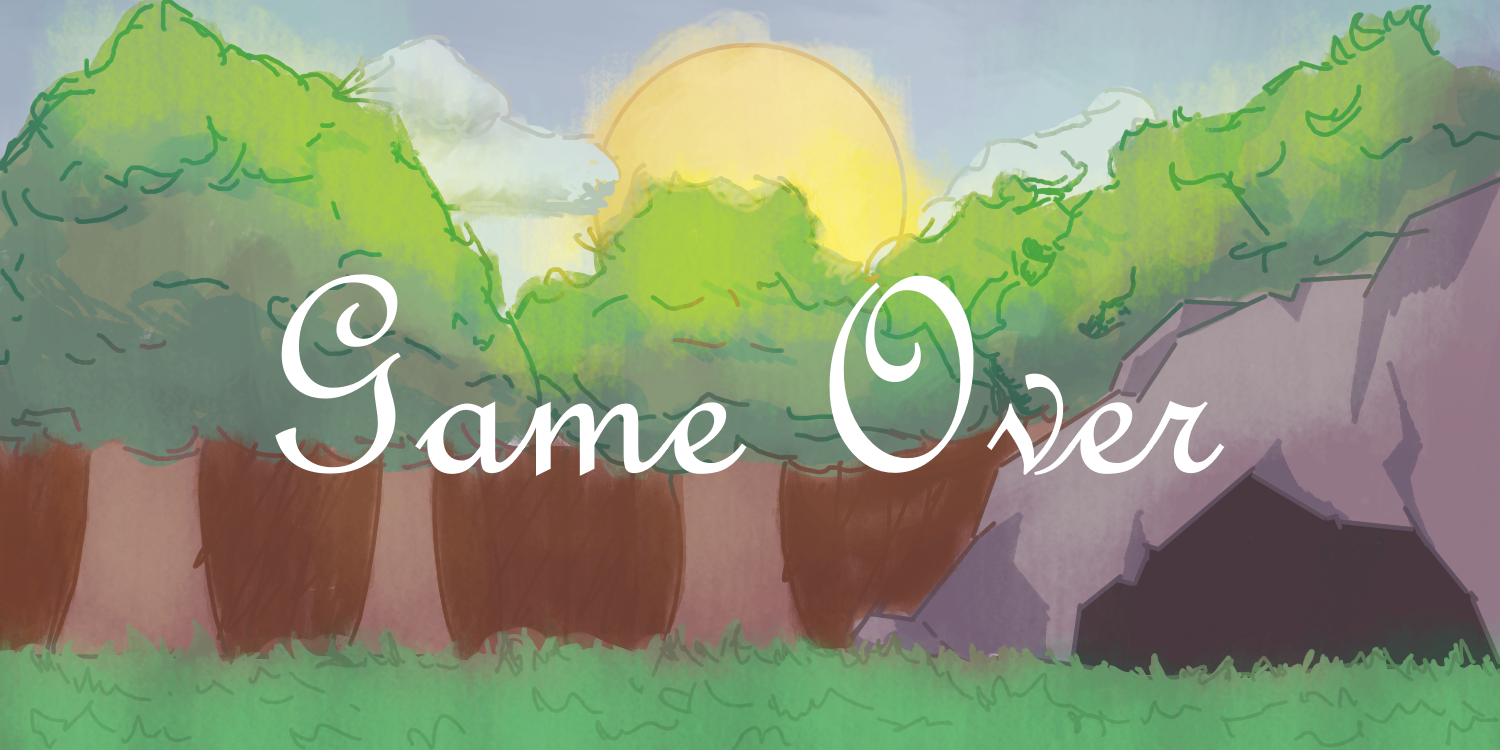
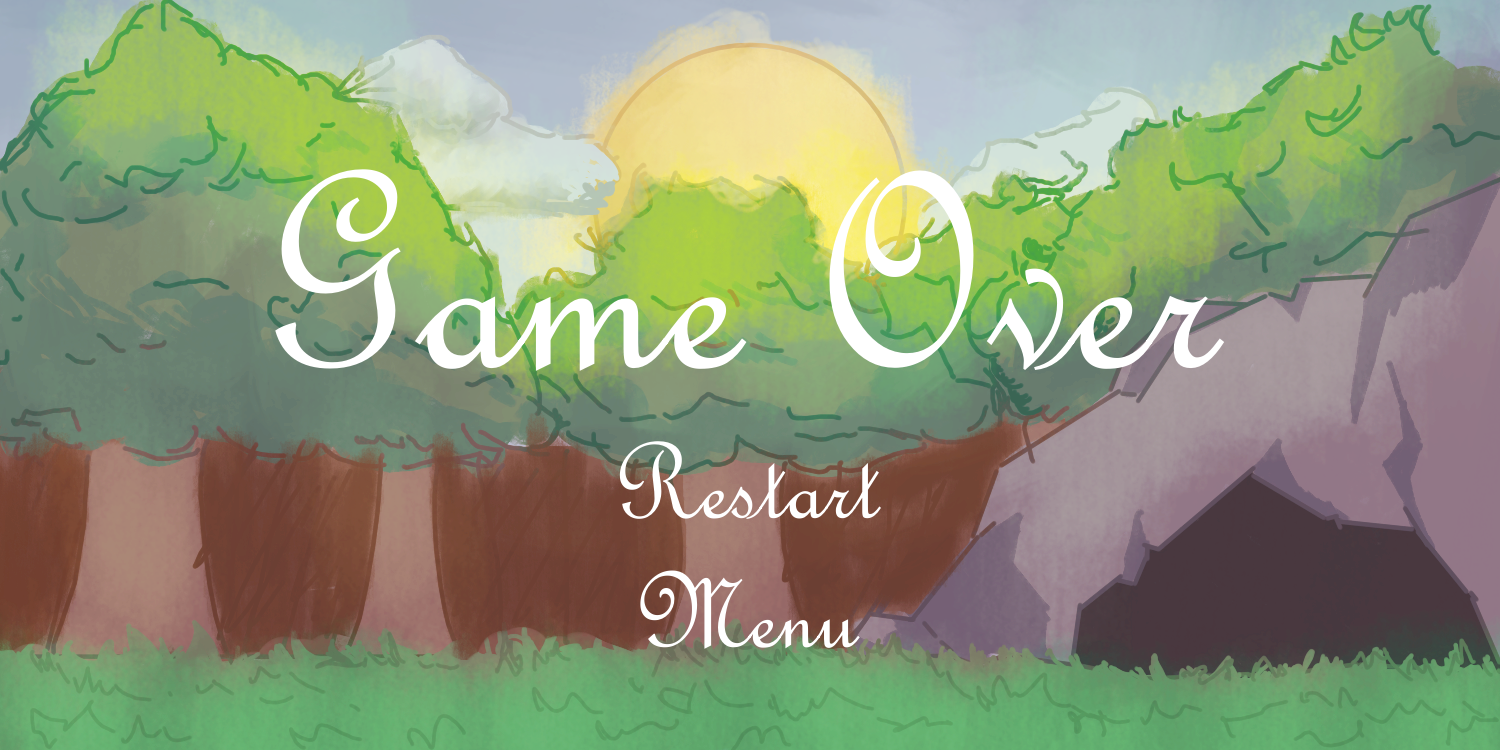
prunes spawn in intervals, pause and game over selection done

Changed region(s): [[0.184, 0.2147, 0.828, 0.7053], [0.4293, 0.7667, 0.5827, 0.8587]]

diff --git a/Sketch.java b/Sketch.java
@@ -4,11 +4,20 @@ import processing.core.PImage;
 
 public class Sketch extends PApplet {
   PImage imgBackground;
+
   PImage imgMenu;
   PImage imgStart;
   PImage imgTut;
   PImage imgGal;
+
   PImage imgGameOver;
+  PImage imgOverMenu;
+  PImage imgOverRestart;
+
+  PImage imgPause;
+  PImage imgRestart;
+  PImage imgResume;
+  PImage imgPMenu;
 
   PImage imgHeart;
 
@@ -54,7 +63,7 @@ public class Sketch extends PApplet {
   int intSpeedX = 15;
   int intSpeedY = 40;
 
-  int intLives = 10;
+  int intLives = 0;
 
   boolean blnRight = false;
   boolean blnLeft = false;
@@ -68,7 +77,7 @@ public class Sketch extends PApplet {
   PImage[] imgRightAttack = new PImage[9];
   PImage[] imgLeftAttack = new PImage[9];
 
-  float[] pruneArmyX = new float[1];
+  float[] pruneArmyX = new float[5];
   float[] pruneArmyY = new float[5];
   int[] pruneSpeed = new int[5];
   float[] pruneHealth = new float[5];
@@ -76,6 +85,8 @@ public class Sketch extends PApplet {
 
   PImage[] imgPruneLeftMove = new PImage[9];
   PImage[] imgPruneRightMove = new PImage[9];
+
+  float[] fltSpawn = new float[5];
 
   int intFrame = 0;
   int intAtkFrame = 0;
@@ -85,7 +96,7 @@ public class Sketch extends PApplet {
   ArrayList<Integer> intClickX = new ArrayList<Integer>();
   ArrayList<Integer> intClickY = new ArrayList<Integer>();
 
-  int intLvl = 1;
+  int intLvl = 0;
 
   public void settings() {
     size(1500, 750);
@@ -103,6 +114,18 @@ public class Sketch extends PApplet {
     imgGal = loadImage("gallery select.png");
 
     imgGameOver = loadImage("game over.png");
+
+    imgOverMenu = loadImage("over menu select.png");
+
+    imgOverRestart = loadImage("over restart select.png");
+
+    imgPause = loadImage("paused.png");
+
+    imgResume = loadImage("resume select.png");
+
+    imgRestart = loadImage("restart select.png");
+
+    imgPMenu = loadImage("menu select.png");
 
     imgHeart = loadImage("heart.png");
     imgHeart.resize(50, 50);
@@ -259,13 +282,13 @@ public class Sketch extends PApplet {
     intClickX.add(0);
     intClickY.add(0);
 
-    // Sets the location, speed, and health of all prunes
+    // Sets the starting location, speed, and health of all prunes
     for (int i = 0; i < pruneArmyX.length; i++) {
-      pruneArmyX[i] = random(1000, 1400);
+      pruneArmyX[i] = -1000;
       pruneArmyY[i] = 550;
       pruneSpeed[i] = 10;
       pruneHealth[i] = 100;
-      blnDrawPrune[i] = true;
+      blnDrawPrune[i] = false;
     }
   }
 
@@ -276,6 +299,9 @@ public class Sketch extends PApplet {
 
     else if(intLvl == 1){
       gameLvl();
+
+      intClickX.add(0);
+      intClickY.add(0);
     }
 
     else if(intLvl == 2){
@@ -291,7 +317,7 @@ public class Sketch extends PApplet {
     }
 
     if(intLives <= 0){
-      image(imgGameOver, 0, 0);
+      gameOver();
     }
   }
 
@@ -320,13 +346,6 @@ public class Sketch extends PApplet {
     // Pause
     if(intLvl == 1 && key == 'x'){
       intLvl = 4;
-      intClickX.add(0);
-      intClickY.add(0);
-    }
-
-    // Resume
-    if(intLvl == 4 && key == 'r'){
-      intLvl = 1;
       intClickX.add(0);
       intClickY.add(0);
     }
@@ -360,7 +379,7 @@ public class Sketch extends PApplet {
   public void startMenu(){
     image(imgMenu, 0, 0);
 
-    // Start select
+    // Start
     if(mouseX >= 660 && mouseX <= 840){
       if(mouseY >= 320 && mouseY <= 400){
         image(imgStart, 0, 0);
@@ -373,7 +392,7 @@ public class Sketch extends PApplet {
       }
     }
 
-    // Tutorial select
+    // Tutorial 
     if(mouseX >= 620 && mouseX <= 890){
       if(mouseY >= 460 && mouseY <= 540){
         image(imgTut, 0, 0);
@@ -386,7 +405,7 @@ public class Sketch extends PApplet {
       }
     }
 
-    // Gallery select
+    // Gallery 
     if(mouseX >= 630 && mouseX <= 870){
       if(mouseY >= 600 && mouseY <= 680){
         image(imgGal, 0, 0);
@@ -494,7 +513,86 @@ public class Sketch extends PApplet {
   }
 
   public void pauseMenu(){
-    image(imgBackground, 0, 0);
+    image(imgPause, 0, 0);
+
+    // Resume
+    if(mouseX >= 615 && mouseX <= 885){
+      if(mouseY >= 370 && mouseY <= 450){
+        image(imgResume, 0, 0);
+
+        if(intClickX.get(intClickX.size() - 1) >= 615 && intClickX.get(intClickX.size() - 1) <= 885){
+          if(intClickY.get(intClickY.size() - 1) >= 370 && intClickY.get(intClickY.size() - 1) <= 450){
+            intLvl = 1;
+          }
+        }
+      }
+    }
+
+    // Restart
+    if(mouseX >= 620 && mouseX <= 880){
+      if(mouseY >= 500 && mouseY <= 580){
+        image(imgRestart, 0, 0);
+
+        if(intClickX.get(intClickX.size() - 1) >= 620 && intClickX.get(intClickX.size() - 1) <= 880){
+          if(intClickY.get(intClickY.size() - 1) >= 500 && intClickY.get(intClickY.size() - 1) <= 580){
+            intLvl = 1;
+          }
+        }
+      }
+    }
+
+    // Menu
+    if(mouseX >= 640 && mouseX <= 860){
+      if(mouseY >= 630 && mouseY <= 710){
+        image(imgPMenu, 0, 0);
+
+        if(intClickX.get(intClickX.size() - 1) >= 640 && intClickX.get(intClickX.size() - 1) <= 860){
+          if(intClickY.get(intClickY.size() - 1) >= 630 && intClickY.get(intClickY.size() - 1) <= 710){
+            intLvl = 0;
+
+            intClickX.add(0);
+            intClickY.add(0);
+          }
+        }
+      }
+    }
+  }
+
+  public void gameOver(){
+    intLvl = 5;
+    
+    image(imgGameOver, 0 , 0);
+  
+    // Restart
+    if(mouseX >= 620 && mouseX <= 880){
+      if(mouseY >= 440 && mouseY <= 520){
+        image(imgOverRestart, 0, 0);
+
+        if(intClickX.get(intClickX.size() - 1) >= 620 && intClickX.get(intClickX.size() - 1) <= 880){
+          if(intClickY.get(intClickY.size() - 1) >= 440 && intClickY.get(intClickY.size() - 1) <= 520){            
+            intLvl = 1;
+            intLives = 10;
+          }
+        }
+      }
+    }
+
+    // Menu
+    if(mouseX >= 640 && mouseX <= 860){
+      if(mouseY >= 570 && mouseY <= 650){
+        image(imgOverMenu, 0, 0);
+
+        if(intClickX.get(intClickX.size() - 1) >= 640 && intClickX.get(intClickX.size() - 1) <= 860){
+          if(intClickY.get(intClickY.size() - 1) >= 570 && intClickY.get(intClickY.size() - 1) <= 650){
+            intLvl = 0;
+            intLives = 10;
+
+            intClickX.add(0);
+            intClickY.add(0);
+          }
+        }
+      }
+    }
   }
 
   // All interactions with prunes
@@ -515,16 +613,16 @@ public class Sketch extends PApplet {
 
       // Prune health lose
       if(charKeys.get(charKeys.size() - 1) == 'd' && blnAtk){
-        if(((intCharX + 200 >= pruneArmyX[i] + 10) && (intCharX + 250 <= pruneArmyX[i] + 120)) && pruneHealth[i] > 0 && intAtkFrame == 1){
+        if(((intCharX + 200 >= pruneArmyX[i] - 10) && (intCharX + 250 <= pruneArmyX[i] + 140)) && pruneHealth[i] > 0 && intAtkFrame == 1){
           pruneHealth[i] = pruneHealth[i] - 10;
-          pruneArmyX[i] = pruneArmyX[i] + 50;
+          pruneArmyX[i] = pruneArmyX[i] + 70;
         }
       }
 
       if(charKeys.get(charKeys.size() - 1) == 'a' && blnAtk){
-        if(((intCharX - 50 >= pruneArmyX[i] + 10) && (intCharX <= pruneArmyX[i] + 120)) && pruneHealth[i] > 0 && intAtkFrame == 1){
+        if(((intCharX - 50 >= pruneArmyX[i] - 10) && (intCharX <= pruneArmyX[i] + 140)) && pruneHealth[i] > 0 && intAtkFrame == 1){
           pruneHealth[i] = pruneHealth[i] - 10;
-          pruneArmyX[i] = pruneArmyX[i] - 50;
+          pruneArmyX[i] = pruneArmyX[i] - 70;
         }
       }
 
@@ -532,7 +630,7 @@ public class Sketch extends PApplet {
         blnDrawPrune[i] = false;
       }
 
-      // Checks to see if prune has health
+      // Checks to see if prune should be drawm
       if(blnDrawPrune[i]){
         // Left or right facing
         if(pruneSpeed[i] > 0){
@@ -552,6 +650,20 @@ public class Sketch extends PApplet {
 
         else if(pruneArmyX[i] >= intCharX - 50 && pruneArmyX[i] <= intCharX + 50 && pruneSpeed[i] < 0){
           image(imgPruneRightAtk, pruneArmyX[i], pruneArmyY[i]);
+        }
+      }
+
+      // Draws prune by chance
+      else{
+        fltSpawn[i] = random(2);
+
+        if(fltSpawn[i] < 0.05){
+          blnDrawPrune[i] = true;
+          pruneArmyX[i] = random(1000, 1500);
+        }
+
+        else{
+          pruneArmyX[i] = -1000;
         }
       }
 
